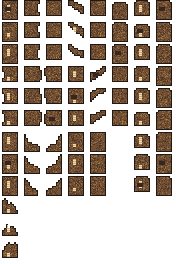
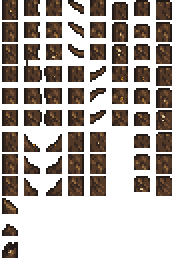
Validate continuous-bark Wastes trees

diff --git a/Content/Diagnostics/VegetationLabGallery.cs b/Content/Diagnostics/VegetationLabGallery.cs
@@ -10,8 +10,8 @@ namespace apogean.Content.Diagnostics
 	/// <summary>Destructive renderer fixture for the complete Wastes ground-cover family.</summary>
 	internal static class VegetationLabGallery
 	{
-		private const int Width = 108;
-		private const int Height = 28;
+		private const int Width = 142;
+		private const int Height = 38;
 
 		internal static Rectangle Build(Player player)
 		{
@@ -24,6 +24,7 @@ namespace apogean.Content.Diagnostics
 			Clear(bounds);
 			PlaceFloor(bounds, floorY);
 			PlaceFamilies(left, floorY);
+			PlaceTrees(left, floorY);
 			Frame(bounds);
 			Lighting.Clear();
 			player.Teleport(new Vector2((left + Width / 2) * 16f, (floorY - 5) * 16f), TeleportationStyleID.RodOfDiscord);
@@ -56,6 +57,18 @@ namespace apogean.Content.Diagnostics
 
 			for (int style = 0; style < 3; style++)
 				RequireObject(left + 71 + style * 11, floorY - 1, shrub, style, "root shrub");
+		}
+
+		private static void PlaceTrees(int left, int floorY)
+		{
+			int sapling = ModContent.TileType<DeadForestSapling>();
+			foreach (int x in new[] { left + 106, left + 121, left + 136 })
+			{
+				if (!WorldGen.PlaceObject(x, floorY - 1, sapling, mute: true))
+					throw new InvalidOperationException($"Vegetation Lab could not place a dead-tree sapling at {x},{floorY - 1}.");
+				if (!WorldGen.GrowTree(x, floorY - 1))
+					throw new InvalidOperationException($"Vegetation Lab could not grow a dead forest tree at {x},{floorY - 1}.");
+			}
 		}
 
 		private static void RequireObject(int x, int y, int type, int randomStyle, string label)

diff --git a/Content/Diagnostics/VanillaAtlasExporter.cs b/Content/Diagnostics/VanillaAtlasExporter.cs
@@ -31,6 +31,12 @@ namespace apogean.Content.Diagnostics
 				Path.Combine(outputDirectory, "Vanilla-Grass-Tile.png"));
 			Export(Main.Assets.Request<Texture2D>($"Images/Wall_{WallID.GrassUnsafe}", AssetRequestMode.ImmediateLoad).Value,
 				Path.Combine(outputDirectory, "Vanilla-GrassUnsafe-Wall.png"));
+			Export(Main.Assets.Request<Texture2D>($"Images/Tiles_{TileID.Trees}", AssetRequestMode.ImmediateLoad).Value,
+				Path.Combine(outputDirectory, "Vanilla-ForestTree-Trunk.png"));
+			Export(Main.Assets.Request<Texture2D>("Images/Tree_Branches_0", AssetRequestMode.ImmediateLoad).Value,
+				Path.Combine(outputDirectory, "Vanilla-ForestTree-Branches.png"));
+			Export(Main.Assets.Request<Texture2D>("Images/Tree_Tops_0", AssetRequestMode.ImmediateLoad).Value,
+				Path.Combine(outputDirectory, "Vanilla-ForestTree-Tops.png"));
 			return outputDirectory;
 		}
 

diff --git a/Content/Diagnostics/TileLabPlayer.cs b/Content/Diagnostics/TileLabPlayer.cs
@@ -117,6 +117,16 @@ namespace apogean.Content.Diagnostics
 			if (!scheduleCaptureProbe)
 				return;
 
+			try
+			{
+				string referenceDirectory = VanillaAtlasExporter.ExportTileLabReferences();
+				Mod.Logger.Info($"VEGETATION LAB REFERENCES EXPORTED: {referenceDirectory}");
+			}
+			catch (System.Exception exception)
+			{
+				Mod.Logger.Error("VEGETATION LAB REFERENCE EXPORT FAILED", exception);
+			}
+
 			_captureProbeBounds = bounds;
 			_captureProbeName = "Apogean Vegetation Lab Capture Probe";
 			_captureProbeEntities = false;

diff --git a/DESIGN_BIBLE.md b/DESIGN_BIBLE.md
@@ -63,6 +63,7 @@ The Wastes must remain a complete Terraria building biome rather than a set dres
 - Each Campus is one authored whole-building blueprint placed without stretching inside its saved atlas reservation. Its silhouette, decks, walls, public frontage, progression entrance, reusable arena, and furniture layout are stable across seeds; only its world location and bounded terrain skirt vary.
 - Corporate interiors use complete native-scale tile families rather than generic block recolors: structure panel, technical/window wall, platform, chair, table, functional workbench, light, console, storage, and faction-signature animated machinery. Kessler reads as fortified armory infrastructure, Helix as clinical containment, and Sentrix as surveillance/data architecture.
 - Every auto-framed solid and wall atlas uses Terraria's real edge/corner/isolated framing topology. A filled grid of repeated 16-pixel squares is invalid even when the canvas dimensions are correct. Apogean bundles these textures directly; a separate resource pack is neither required nor accepted as a substitute.
+- Native-format atlases are validated in a disposable in-game gallery, not from their source PNG alone. When a Terraria atlas uses opaque frame cells, Apogean preserves its alpha and within-frame luminance continuity before applying an original palette; independently outlining or procedurally filling every cell creates visible bamboo-like seams and is forbidden. The renderer harness exports local vanilla references for topology research, then captures the finished mod asset at gameplay scale.
 - Ground Campus blueprints mutate only explicitly authored clear/tile/wall/object cells. Empty reservation cells preserve host terrain, Kessler seals a compact authored footing into the surface, and Helix anchors its walkable dome at the sampled surface while the laboratory extends below. Sentrix alone may clear its full reservation because it is deliberately floating.
 - Every supported world guarantees one abandoned outpost for each corporation, one neutral pre-war settlement or transit ruin, and one independent Maw research site. Additional small ruins are opportunistic and never displace critical Terraria or third-party content.
 

diff --git a/ACT1_ROADMAP.md b/ACT1_ROADMAP.md
@@ -3,6 +3,14 @@
 ## Shipped foundation
 
 - Faction relation scaffold, sealed compounds, dialogue UI, and a playable Matriarch prototype.
+- Renderer-gated Wastes material pipeline: disposable tile, grass, and vegetation galleries; local native-atlas export; cold client capture; and validated soil, grass, ground-cover, and continuous-bark dead-tree families.
+
+## Current environmental gate
+
+1. Validate the remaining Wastes tile, wall, vegetation, and multitile families in small renderer-lab batches.
+2. Confirm their placement, framing, merge, slope, paint, mining, light, liquid, drop, save/load, and synchronization properties.
+3. Implement the explicit Purity/Wastes/Maw/Corruption/Crimson/Hallow conversion matrix only after the neutral families pass.
+4. Proceed to biome/depth backgrounds, then faction construction sets, the animated Kessler flag, and faction furniture.
 
 ## Vertical slices
 

diff --git a/CONTEXT.md b/CONTEXT.md
@@ -2,6 +2,11 @@
 
 This glossary defines the setting-specific language shared by world generation, progression, art, dialogue, and documentation. Player-facing systems use these terms consistently.
 
+## Implementation discipline
+
+**Renderer-validated asset**:
+A tile, wall, tree, furniture object, or background that has passed its static atlas contract, a clean build, and inspection in a disposable in-game capture at useful scale. A PNG that looks correct outside Terraria is not complete until its framing, seams, anchors, and gameplay rendering pass this gate.
+
 ## World ecology
 
 **The Wastes**:
